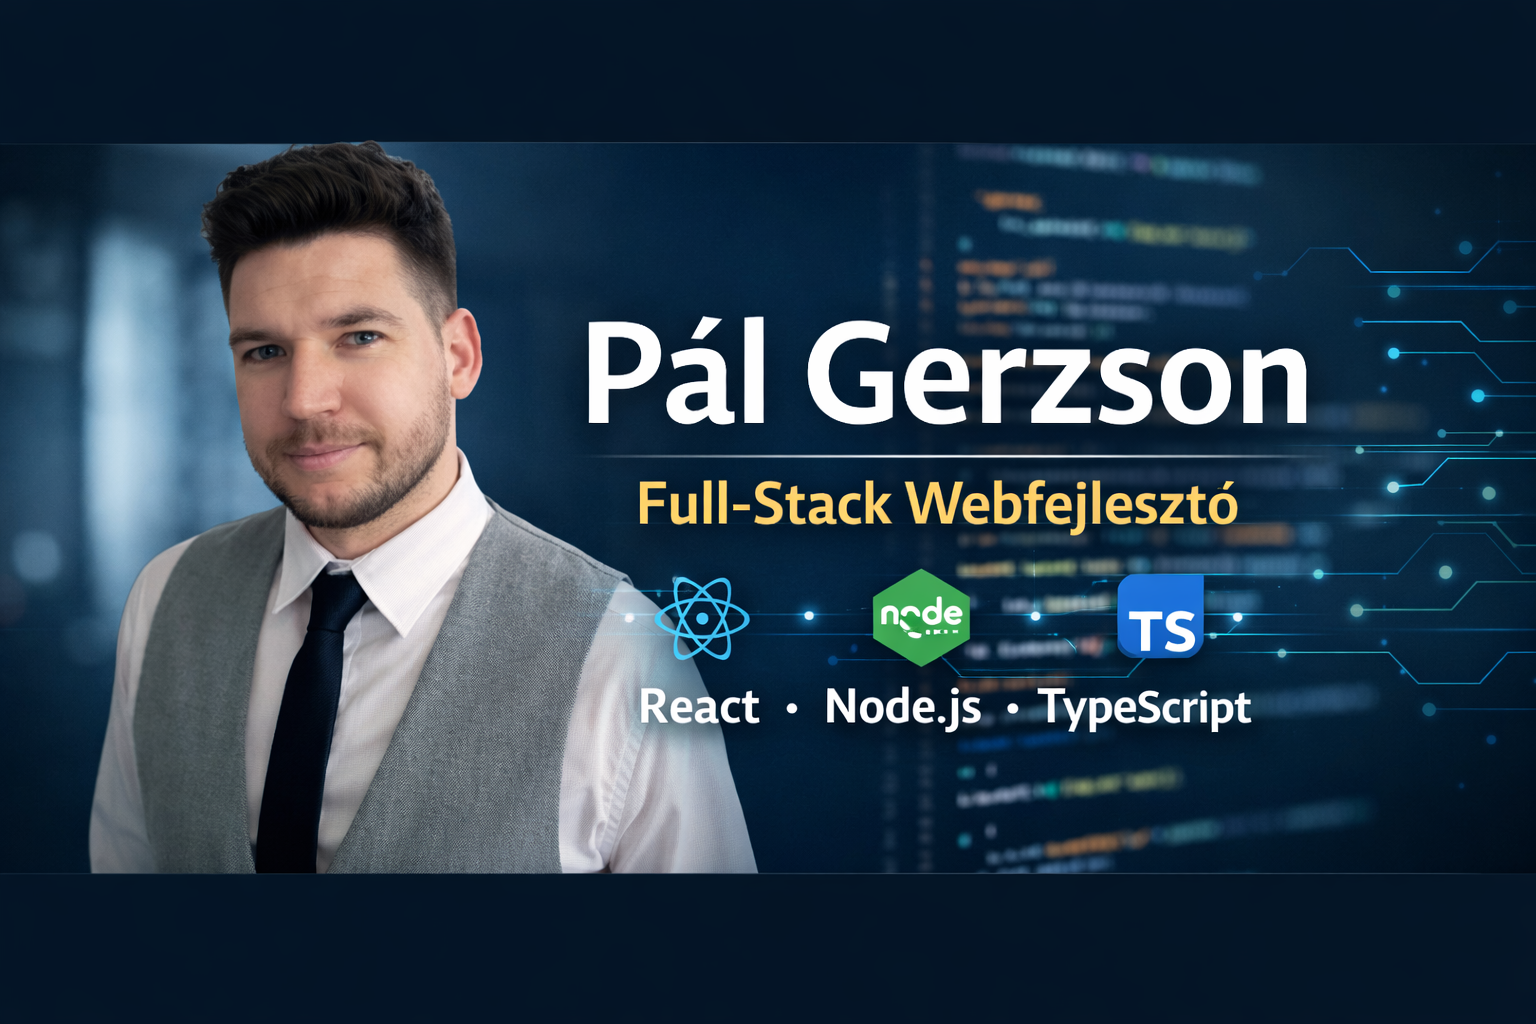
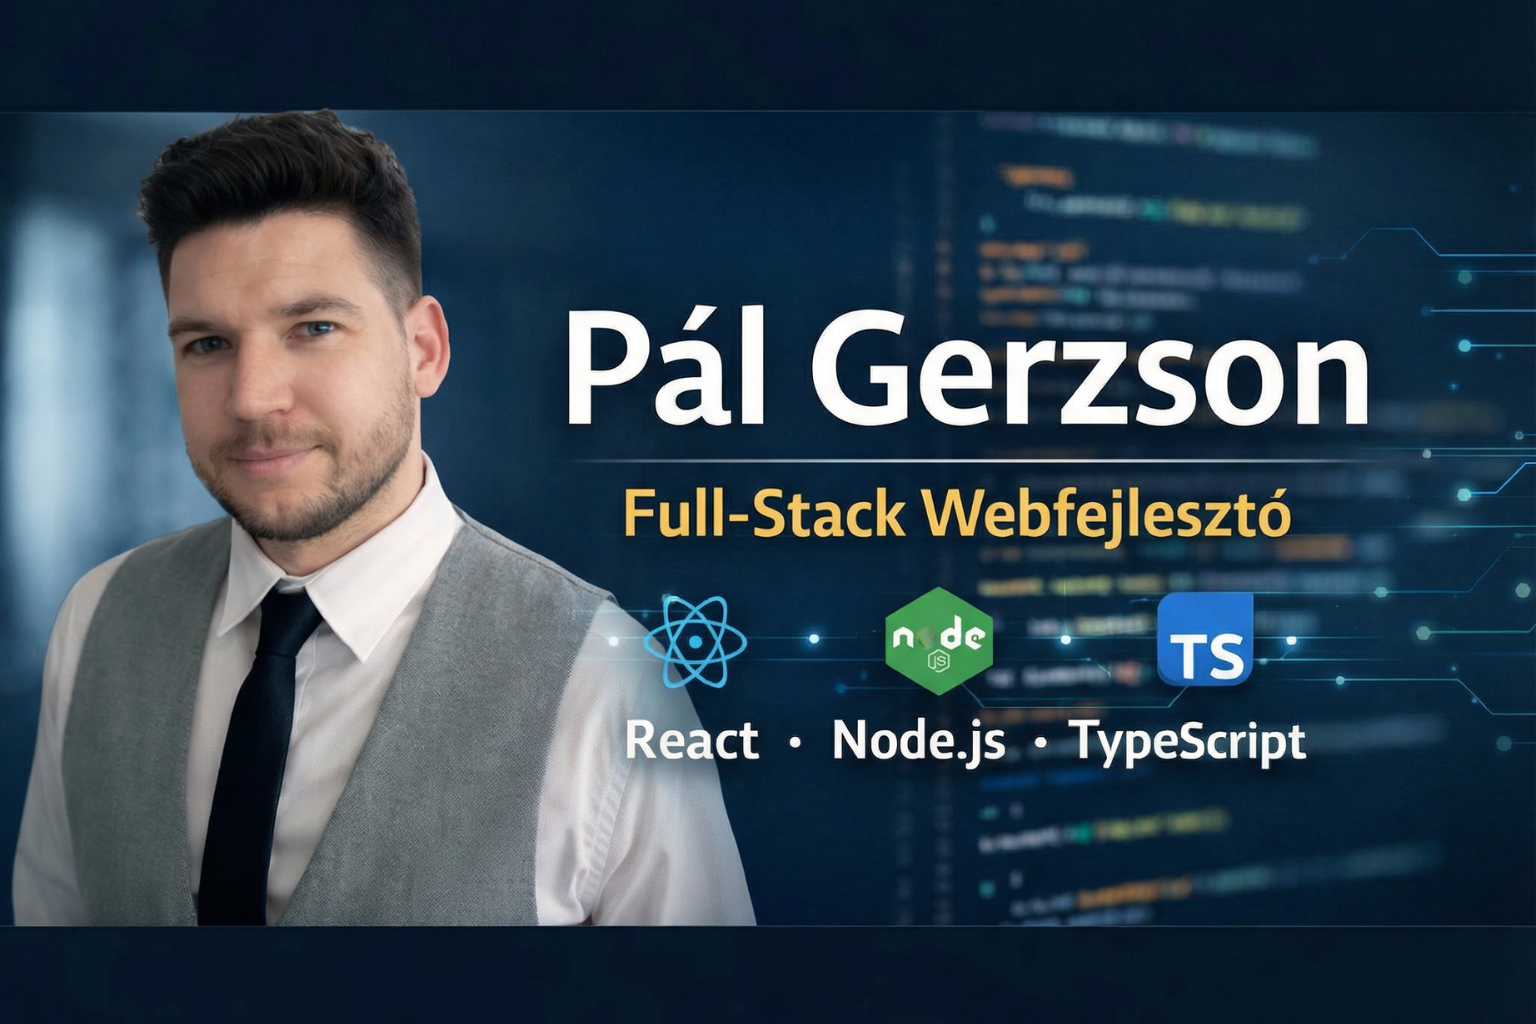
update the project

diff --git a/src/Components/AboutMe.tsx b/src/Components/AboutMe.tsx
@@ -2,36 +2,26 @@ import { MEDIA_SRC_LINKS } from "../Constants/Constants";
 
 export default function AboutMe() {
   return (
-    <div
-      id="aboutme"
-      className="w-full sm:w-4/5 mx-0 sm:mx-auto gap-8 flex justify-between items-center flex-col sm:flex-row"
-    >
-      {/* bemutatkozás */}
-      <div className="flex flex-col items-center justify-center gap-8">
-        <h1 className="text-4xl">Pál Gerzson</h1>
-        <h2 className="text-2xl">Full-Stack webfejlesztő</h2>
-
-        <a
-          href={MEDIA_SRC_LINKS.cv.src}
-          target="_blank"
-          rel="noopener noreferrer"
-          className="bg-cyan-500 hover:bg-cyan-400 cursor-pointer duration-300 text-black w-fit p-4 rounded-md flex flex-row-reverse gap-4 items-center justify-center"
-        >
-          Önéletrajz
-          <img
-            src={MEDIA_SRC_LINKS.downloadIcon.src}
-            alt={MEDIA_SRC_LINKS.downloadIcon.alt}
-            width={24}
-          />
-        </a>
-      </div>
-
-      {/* profilkép */}
+    <div id="aboutme" className="relative mt-6">
       <img
         src={MEDIA_SRC_LINKS.profileImg.src}
         alt={MEDIA_SRC_LINKS.profileImg.alt}
-        className="h-80 w-fit"
+        className="w-full"
       />
+
+      <a
+        href={MEDIA_SRC_LINKS.cv.src}
+        target="_blank"
+        rel="noopener noreferrer"
+        className="bg-cyan-500 hover:bg-cyan-400 cursor-pointer duration-300 text-black w-fit p-2 rounded-md flex flex-row-reverse gap-4 items-center justify-center absolute bottom-1 left-1/2 transform -translate-x-1/2"
+      >
+        Önéletrajz
+        <img
+          src={MEDIA_SRC_LINKS.downloadIcon.src}
+          alt={MEDIA_SRC_LINKS.downloadIcon.alt}
+          width={16}
+        />
+      </a>
     </div>
   );
 }

diff --git a/src/App.tsx b/src/App.tsx
@@ -4,10 +4,11 @@ import Footer from "./Components/Footer";
 import Header from "./Components/Header";
 import Projects from "./Components/Projects";
 import Skills from "./Components/Skills";
+import { MEDIA_SRC_LINKS } from "./Constants/Constants";
 
 export default function App() {
   return (
-    <>
+    <div className="relative">
       <Header />
       <main className="pt-(--header-scroll-offset) flex flex-col gap-12">
         <AboutMe />
@@ -16,6 +17,19 @@ export default function App() {
         <Contacts />
       </main>
       <Footer />
-    </>
+
+      <a
+        href="#aboutme"
+        className="group fixed bottom-4 right-4 w-12 h-12 z-10 flex items-center justify-center rounded-full bg-cyan-400 dark:bg-cyan-800 hover:bg-cyan-500 dark:hover:bg-cyan-600 transition-colors duration-300"
+      >
+        <img
+          src={MEDIA_SRC_LINKS.arrowUp.src}
+          alt={MEDIA_SRC_LINKS.arrowUp.alt}
+          width={16}
+          height={16}
+          className="transition-transform duration-300 ease-out group-hover:scale-125"
+        />
+      </a>
+    </div>
   );
 }

diff --git a/src/Components/Header.tsx b/src/Components/Header.tsx
@@ -30,7 +30,10 @@ export default function Header() {
             setOpen(!open);
             setFirstLoad(false);
           }}
-          aria-label="Menu toggle"
+          type="button"
+          aria-label={`${
+            open ? "Close navigation menu" : "Open navigation menu"
+          }`}
           aria-expanded={open}
           aria-controls="nav"
           className="border-none outline-none absolute right-4 top-4 sm:hidden p-2 rounded-md hover:bg-zinc-100 dark:hover:bg-zinc-800 cursor-pointer"
@@ -47,6 +50,7 @@ export default function Header() {
         {/* Navigáció */}
         <nav
           id="nav"
+          aria-label="Fő navigáció"
           className={`${
             firstLoad ? "hide" : open ? "nav-open" : "nav-closed"
           } flex justify-center items-center flex-col sm:flex-row`}

diff --git a/index.html b/index.html
@@ -13,10 +13,10 @@
     />
     <meta property="og:type" content="website" />
 
-    <meta property="og:url" content="https://palgerzson.github.io/portfolio" />
+    <meta property="og:url" content="https://g3rzson.github.io/portfolio/" />
     <meta
       property="og:image"
-      content="https://palgerzson.github.io/portfolio/og.png"
+      content="https://g3rzson.github.io/portfolio/og.png"
     />
 
     <link rel="icon" type="image/png" href="favicon.png" />

diff --git a/src/Constants/Constants.tsx b/src/Constants/Constants.tsx
@@ -7,7 +7,7 @@ export const NAV_LINKS = [
 
 export const MEDIA_SRC_LINKS = {
   logo: { src: "favicon.png", alt: "Logó" },
-  profileImg: { src: "profil_2.png", alt: "Profilkép" },
+  profileImg: { src: "og.png", alt: "Profilkép" },
   downloadIcon: { src: "icons/download.svg", alt: "Letöltés ikon" },
   cv: { src: "file/PG.pdf" },
   github: { src: "contacts/github.svg", alt: "Github" },

diff --git a/src/index.css b/src/index.css
@@ -1,7 +1,7 @@
 @import "tailwindcss";
 
 :root {
-  --header-scroll-offset: 7rem;
+  --header-scroll-offset: 3rem;
 }
 
 html {
@@ -49,7 +49,7 @@ html {
 
 @media (min-width: 640px) {
   :root {
-    --header-scroll-offset: 5rem;
+    --header-scroll-offset: 3rem;
   }
 
   .nav-open,

diff --git a/README.md b/README.md
@@ -1,8 +1,21 @@
-## Portfólió oldal
+# Portfolio (React + Vite + TypeScript)
 
-Előnézet: https://g3rzson.github.io/portfolio/
+Personal portfolio website.
 
-## Technológiák:
+## Key Features
 
-React vite + Typescript
-Tailwind CSS
+- Single-page layout (SPA) with sections: About / Skills / Projects / Contact
+- Fixed header with smooth scroll anchor navigation
+- Expandable project details
+- SEO / Open Graph meta tags for sharing previews
+
+## Technologies
+
+- React + TypeScript
+- Vite
+- Tailwind CSS
+
+## Notes
+
+- Detailed descriptions of the projects can be found in the README files of the respective GitHub repositories.
+- The portfolio's goal is to provide a quick overview of the stack and work, and then direct visitors to more detailed materials.
